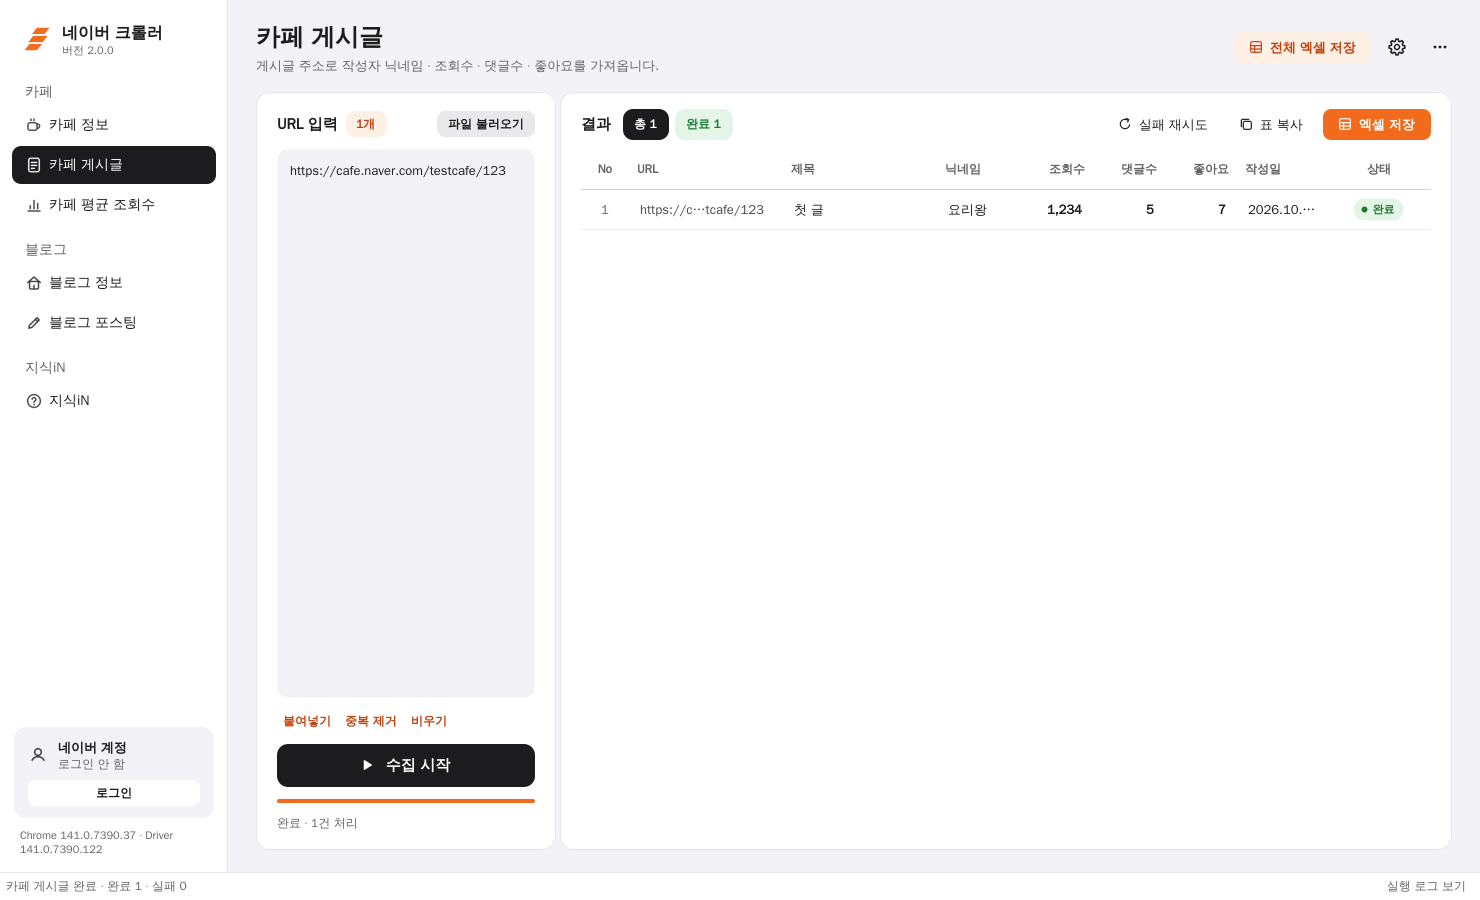
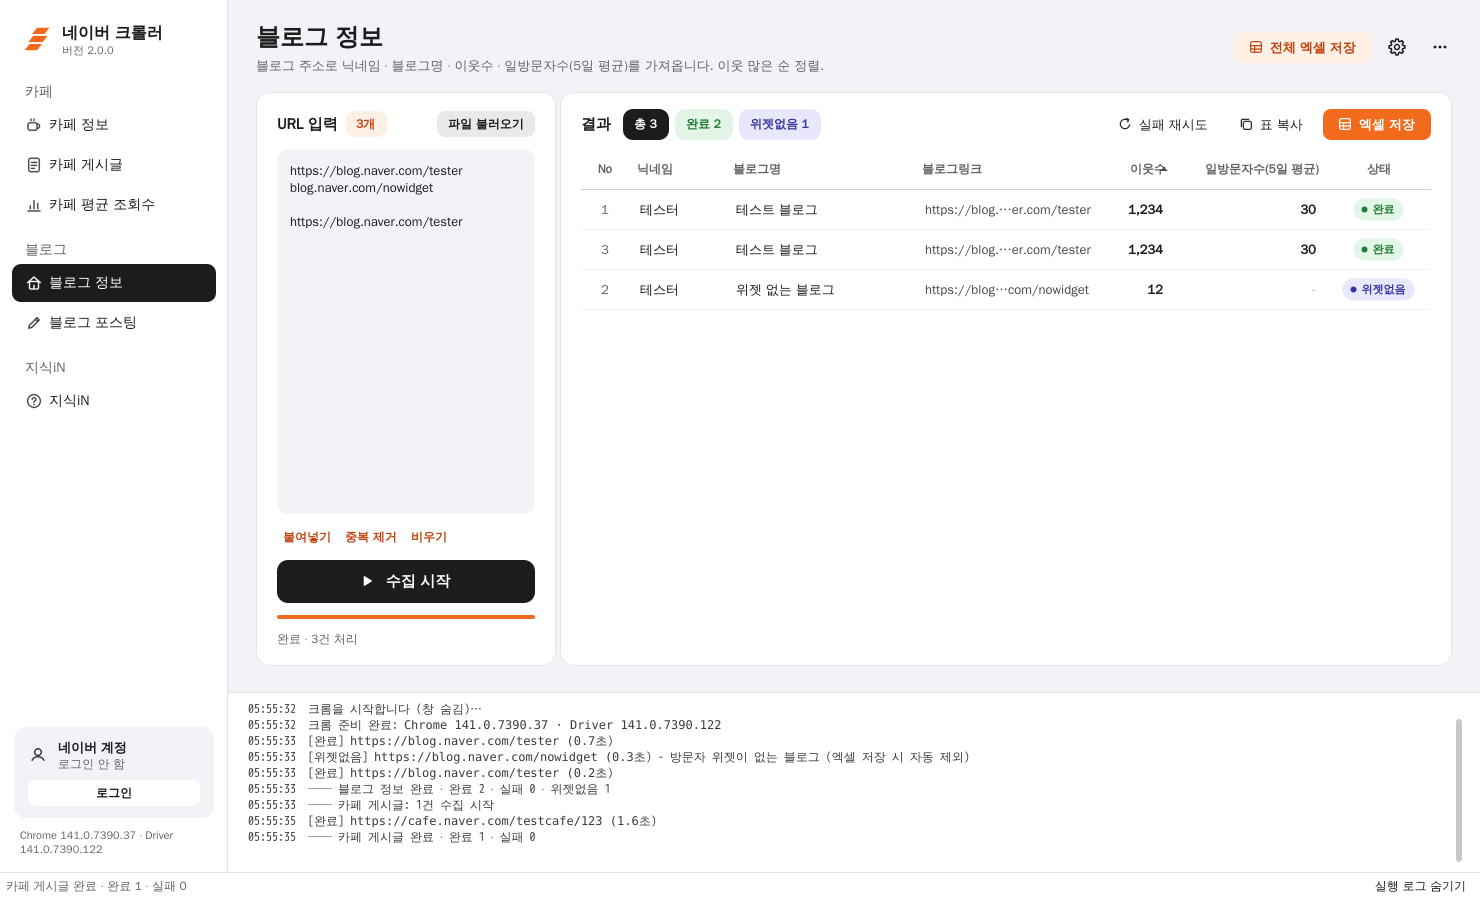
블로그 정보 열 순서 고정 · 이웃수 내림차순 정렬
- 열: 구분 / 닉네임 / 블로그명 / 블로그링크 / 이웃수 / 일방문자수(5일 평균) / 비고
- 엑셀은 항상 이웃수 많은 순 (값 없는 행은 맨 뒤), 구분은 정렬 후 1부터
- 앱 표도 수집이 끝나면 이웃수 내림차순으로 정렬
- 작업이 URL 열 위치/이름을 직접 정할 수 있게 (블로그링크)
- 블로그 ID 열 제거

Claude-Session: https://claude.ai/code/session_01Y6A6b4sYNtttbxogfahcn3

diff --git a/tests/test_excel.py b/tests/test_excel.py
@@ -63,27 +63,34 @@ def test_multi_sheet_no_summary(tmp_path):
     assert wb["지식iN"].cell(TITLE_ROW, 2).value == "지식iN (0)"
 
 
-def test_no_widget_blogs_are_excluded(tmp_path):
+def test_blog_sheet_order_sort_and_no_widget_exclusion(tmp_path):
     task = TASK_BY_ID["blog_info"]
     rows = [
         {"url": "https://blog.naver.com/a", "name": "A", "nickname": "a", "avg": 100, "buddies": 5868, "status": "완료"},
         {"url": "https://blog.naver.com/b", "name": "B", "nickname": "b", "avg": None, "buddies": 12,
          "status": "위젯없음", "message": "방문자 위젯이 없는 블로그"},
         {"url": "https://blog.naver.com/c", "name": "C", "nickname": "c", "avg": 300, "buddies": 319000, "status": "완료"},
+        {"url": "https://blog.naver.com/d", "name": "D", "nickname": "d", "avg": 50, "buddies": None,
+         "status": "일부 누락", "message": "누락: 이웃수"},
     ]
-    sheet = SheetData(task.title, task.description, task.columns, rows, task.notes)
+    sheet = SheetData(task.title, task.description, task.columns, rows, task.notes, task.sort_desc)
     wb = load_workbook(export_xlsx(tmp_path / "blog.xlsx", [sheet], WHEN))
     assert wb.sheetnames == ["블로그 정보", "제외 목록"]
     ws = wb["블로그 정보"]
-    assert ws.cell(TITLE_ROW, 2).value == "블로그 정보 (2)"
-    headers = [ws.cell(HEADER_ROW, c).value for c in range(2, 10)]
-    assert headers == ["구분", "블로그명", "URL", "닉네임", "5일 방문자수 평균", "이웃수", "블로그 ID", "비고"]
-    assert ws.cell(FIRST_DATA_ROW + 1, 7).value == 319000
-    assert [ws.cell(r, 4).value for r in (FIRST_DATA_ROW, FIRST_DATA_ROW + 1)] == [
-        "https://blog.naver.com/a", "https://blog.naver.com/c"]
-    notes = [ws.cell(r, 2).value for r in range(FIRST_DATA_ROW + 3, FIRST_DATA_ROW + 7)]
-    assert notes[1].startswith("* 5일 방문자수 평균:")
-    assert notes[2].startswith("* 이웃수:")
+    assert ws.cell(TITLE_ROW, 2).value == "블로그 정보 (3)"
+    headers = [ws.cell(HEADER_ROW, c).value for c in range(2, 9)]
+    assert headers == ["구분", "닉네임", "블로그명", "블로그링크", "이웃수", "일방문자수(5일 평균)", "비고"]
+    # 이웃 많은 순, 이웃수 없는 행은 맨 뒤, 구분은 정렬 후 1부터
+    body = [[ws.cell(r, c).value for c in range(2, 9)] for r in range(FIRST_DATA_ROW, FIRST_DATA_ROW + 3)]
+    assert body == [
+        [1, "c", "C", "https://blog.naver.com/c", 319000, 300, None],
+        [2, "a", "A", "https://blog.naver.com/a", 5868, 100, None],
+        [3, "d", "D", "https://blog.naver.com/d", "-", 50, "누락: 이웃수"],
+    ]
+    assert ws.cell(FIRST_DATA_ROW, 5).hyperlink.target == "https://blog.naver.com/c"
+    notes = [ws.cell(r, 2).value for r in range(FIRST_DATA_ROW + 4, FIRST_DATA_ROW + 8)]
+    assert notes[1].startswith("* 이웃수:")
+    assert notes[2].startswith("* 일방문자수(5일 평균):")
     assert "1건은 '제외 목록'" in notes[3]
 
     excluded = wb["제외 목록"]

diff --git a/naver_crawler/crawlers.py b/naver_crawler/crawlers.py
@@ -75,6 +75,7 @@ class TaskSpec:
     columns: tuple[Column, ...]
     run: Callable[["Context", str], RowResult]
     notes: tuple[str, ...] = ()  # 엑셀 표 아래 '*' 주석
+    sort_desc: str | None = None  # 이 열 기준 내림차순 정렬 (엑셀 · 수집 완료 후 표)
 
 
 class Context:
@@ -554,7 +555,6 @@ def crawl_blog_info(ctx: Context, url: str) -> RowResult:
         "nickname": nickname,
         "avg": int(sum(c for _, c in counts) / len(counts)) if counts else None,
         "buddies": buddies,
-        "blog_id": blog_id,
     }
     if not counts and (name or nickname):
         return RowResult(values, STATUS_NO_WIDGET, "방문자 위젯이 없는 블로그 (엑셀 저장 시 자동 제외)")
@@ -684,20 +684,21 @@ TASKS: tuple[TaskSpec, ...] = (
     TaskSpec(
         "blog_info",
         "블로그 정보",
-        "블로그 주소로 블로그명 · 닉네임 · 5일 방문자수 평균 · 이웃수를 가져옵니다.",
+        "블로그 주소로 닉네임 · 블로그명 · 이웃수 · 일방문자수(5일 평균)를 가져옵니다. 이웃 많은 순 정렬.",
         "https://blog.naver.com/블로그아이디\n한 줄에 하나씩 입력",
         (
-            Column("name", "블로그명", width=26, required=True),
             Column("nickname", "닉네임", width=16, required=True),
-            Column("avg", "5일 방문자수 평균", "int", width=12, required=True),
+            Column("name", "블로그명", width=26, required=True),
+            Column("url", "블로그링크", width=34),
             Column("buddies", "이웃수", "int", width=9, required=True),
-            Column("blog_id", "블로그 ID", width=16),
+            Column("avg", "일방문자수(5일 평균)", "int", width=14, required=True),
         ),
         crawl_blog_info,
         (
-            "* 5일 방문자수 평균: 네이버 블로그 방문자 위젯 기준 최근 5일 평균 (오늘 포함)",
-            "* 이웃수: 수집 시점 네이버 블로그 표시 기준",
+            "* 이웃수: 수집 시점 네이버 블로그 표시 기준, 이웃 많은 순 정렬",
+            "* 일방문자수(5일 평균): 네이버 블로그 방문자 위젯 기준 최근 5일 평균 (오늘 포함)",
         ),
+        sort_desc="buddies",
     ),
     TaskSpec(
         "blog_post",

diff --git a/naver_crawler/excel.py b/naver_crawler/excel.py
@@ -53,6 +53,7 @@ class SheetData:
     columns: Sequence[Column]                                   # 작업 결과 열 (구분/URL/비고는 자동 추가)
     rows: list[dict[str, Any]] = field(default_factory=list)   # {"url", "status", "message", <열 key>…}
     notes: Sequence[str] = ()                                   # 표 아래 '*' 주석
+    sort_desc: str | None = None                                # 이 열 큰 값부터 정렬 (값 없는 행은 맨 뒤)
 
 
 def split_excluded(rows: list[dict]) -> tuple[list[dict], list[dict]]:
@@ -94,7 +95,9 @@ def _safe_sheet_title(title: str, used: set[str]) -> str:
 
 
 def _ordered_columns(columns: Sequence[Column]) -> list[Column]:
-    """구분 | 이름(첫 글자 열) | URL | 나머지 | 비고 순서."""
+    """구분 | 이름(첫 글자 열) | URL | 나머지 | 비고 순서. 작업이 URL 열 위치를 정했으면 그대로 따른다."""
+    if any(c.key == "url" for c in columns):
+        return [Column("_no", "구분", "int", width=6), *columns, Column("_note", "비고", width=40)]
     first_text = next((c for c in columns if c.kind == "text"), None)
     out = [Column("_no", "구분", "int", width=6)]
     if first_text is not None:
@@ -195,6 +198,9 @@ def build_workbook(sheets: list[SheetData], generated: dt.datetime | None = None
 
     for sheet in sheets:
         kept, dropped = split_excluded(sheet.rows)
+        if sheet.sort_desc:
+            key = sheet.sort_desc
+            kept = sorted(kept, key=lambda r: (not isinstance(r.get(key), (int, float)), -(r.get(key) or 0)))
         excluded += [(sheet.title, row) for row in dropped]
         notes = [f"* 수집일시: {generated:%Y-%m-%d %H:%M}", *sheet.notes]
         if dropped:

diff --git a/naver_crawler/ui/task_page.py b/naver_crawler/ui/task_page.py
@@ -232,7 +232,9 @@ class TaskPage(QWidget):
         header.setMinimumSectionSize(40)
         header.setDefaultAlignment(Qt.AlignmentFlag.AlignLeft | Qt.AlignmentFlag.AlignVCenter)
         # URL 과 첫 텍스트 열(제목/카페명/블로그명)이 남는 폭을 나눠 쓰고, 숫자 열은 항상 보이게
-        stretch_keys = {"url", next((c.key for c in self.task.columns if c.kind == "text"), "url")}
+        text_keys = [c.key for c in self.task.columns if c.kind == "text" and c.key != "url"]
+        main_text = next((k for k in text_keys if k in ("title", "name")), text_keys[0] if text_keys else "url")
+        stretch_keys = {"url", main_text}
         hidden_keys = {"message", "club_id", "blog_id"}  # 표에서는 숨기고 엑셀에는 포함
         fm = header.fontMetrics()
         for i, (key, _h, kind) in enumerate(self.model.columns):
@@ -395,6 +397,13 @@ class TaskPage(QWidget):
         else:
             self.status_text.setText(f"중지됨 · {self._done} / {self._total}")
         self.refresh_summary()
+        self.apply_default_sort()
+
+    def apply_default_sort(self) -> None:
+        """작업에 정렬 기준이 있으면(블로그: 이웃수) 큰 값부터 정렬. 수집 중엔 행이 튀지 않게 끝난 뒤에만."""
+        keys = [k for k, _h, _kind in self.model.columns]
+        if self.task.sort_desc in keys:
+            self.table.sortByColumn(keys.index(self.task.sort_desc), Qt.SortOrder.DescendingOrder)
 
     def refresh_summary(self) -> None:
         c = self.model.counts()

diff --git a/naver_crawler/ui/results_model.py b/naver_crawler/ui/results_model.py
@@ -30,9 +30,10 @@ class ResultsModel(QAbstractTableModel):
     def __init__(self, task: TaskSpec, parent=None):
         super().__init__(parent)
         self.task = task
+        has_url = any(c.key == "url" for c in task.columns)
         self.columns: list[tuple[str, str, str]] = [
             ("_no", "No", "int"),
-            ("url", "URL", "text"),
+            *([] if has_url else [("url", "URL", "text")]),
             *[(c.key, c.header, c.kind) for c in task.columns],
             ("status", "상태", "text"),
             ("message", "비고", "text"),
@@ -187,4 +188,5 @@ class ResultsModel(QAbstractTableModel):
             {"url": r.url, "status": r.status, "message": r.message, **r.values}
             for r in self.rows
         ]
-        return SheetData(self.task.title, self.task.description, self.task.columns, rows, self.task.notes)
+        return SheetData(self.task.title, self.task.description, self.task.columns, rows, self.task.notes,
+                         self.task.sort_desc)

diff --git a/tests/test_ui_smoke.py b/tests/test_ui_smoke.py
@@ -94,6 +94,11 @@ def test_crawl_and_export_through_ui(qapp, tmp_path, monkeypatch):
         assert statuses == ["완료", "위젯없음", "완료"]
         assert page.model.rows[0].values["avg"] == 30
         assert "위젯없음 1" in page.summary.text()
+        # 수집이 끝나면 이웃수 많은 순으로 정렬 (테스터 1,234 > 위젯없음 블로그 12)
+        keys = [k for k, _h, _kind in page.model.columns]
+        assert keys[:6] == ["_no", "nickname", "name", "url", "buddies", "avg"]
+        shown = [page.proxy.index(r, keys.index("buddies")).data() for r in range(3)]
+        assert shown == ["1,234", "1,234", "12"]
         assert page.start_btn.isEnabled()
 
         # 카페 게시글 탭도 하나 채워 전체 저장 확인

diff --git a/tests/test_browser_flows.py b/tests/test_browser_flows.py
@@ -97,7 +97,7 @@ def test_blog_info_and_no_widget_does_not_stop(engine):
     assert no_widget.values["name"] == "위젯 없는 블로그"
     assert ok.status == "완료", ok.message
     # PC 화면의 '이웃 1,234명' (서로이웃 23명은 무시)
-    assert ok.values == {"name": "테스트 블로그", "nickname": "테스터", "avg": 30, "buddies": 1234, "blog_id": "tester"}
+    assert ok.values == {"name": "테스트 블로그", "nickname": "테스터", "avg": 30, "buddies": 1234}
 
 
 def test_blog_buddy_count_fallbacks(engine):
